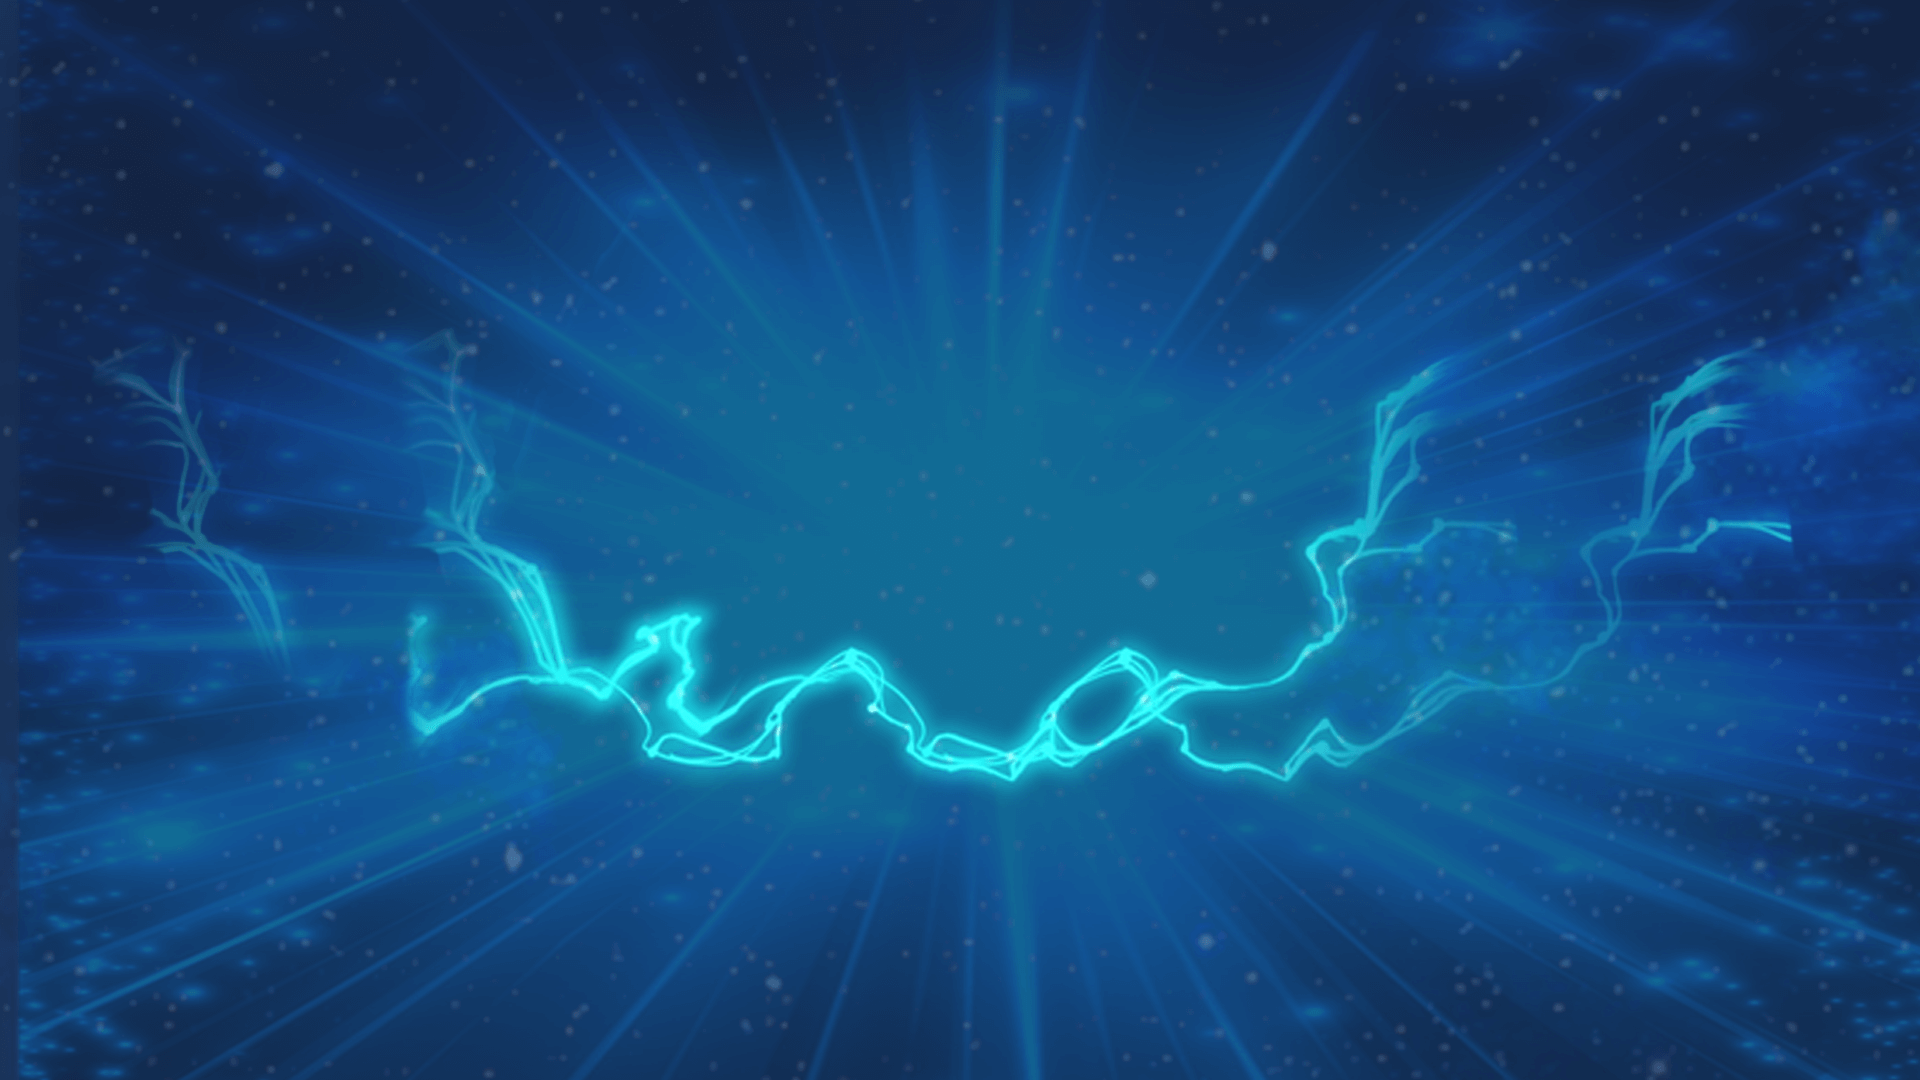
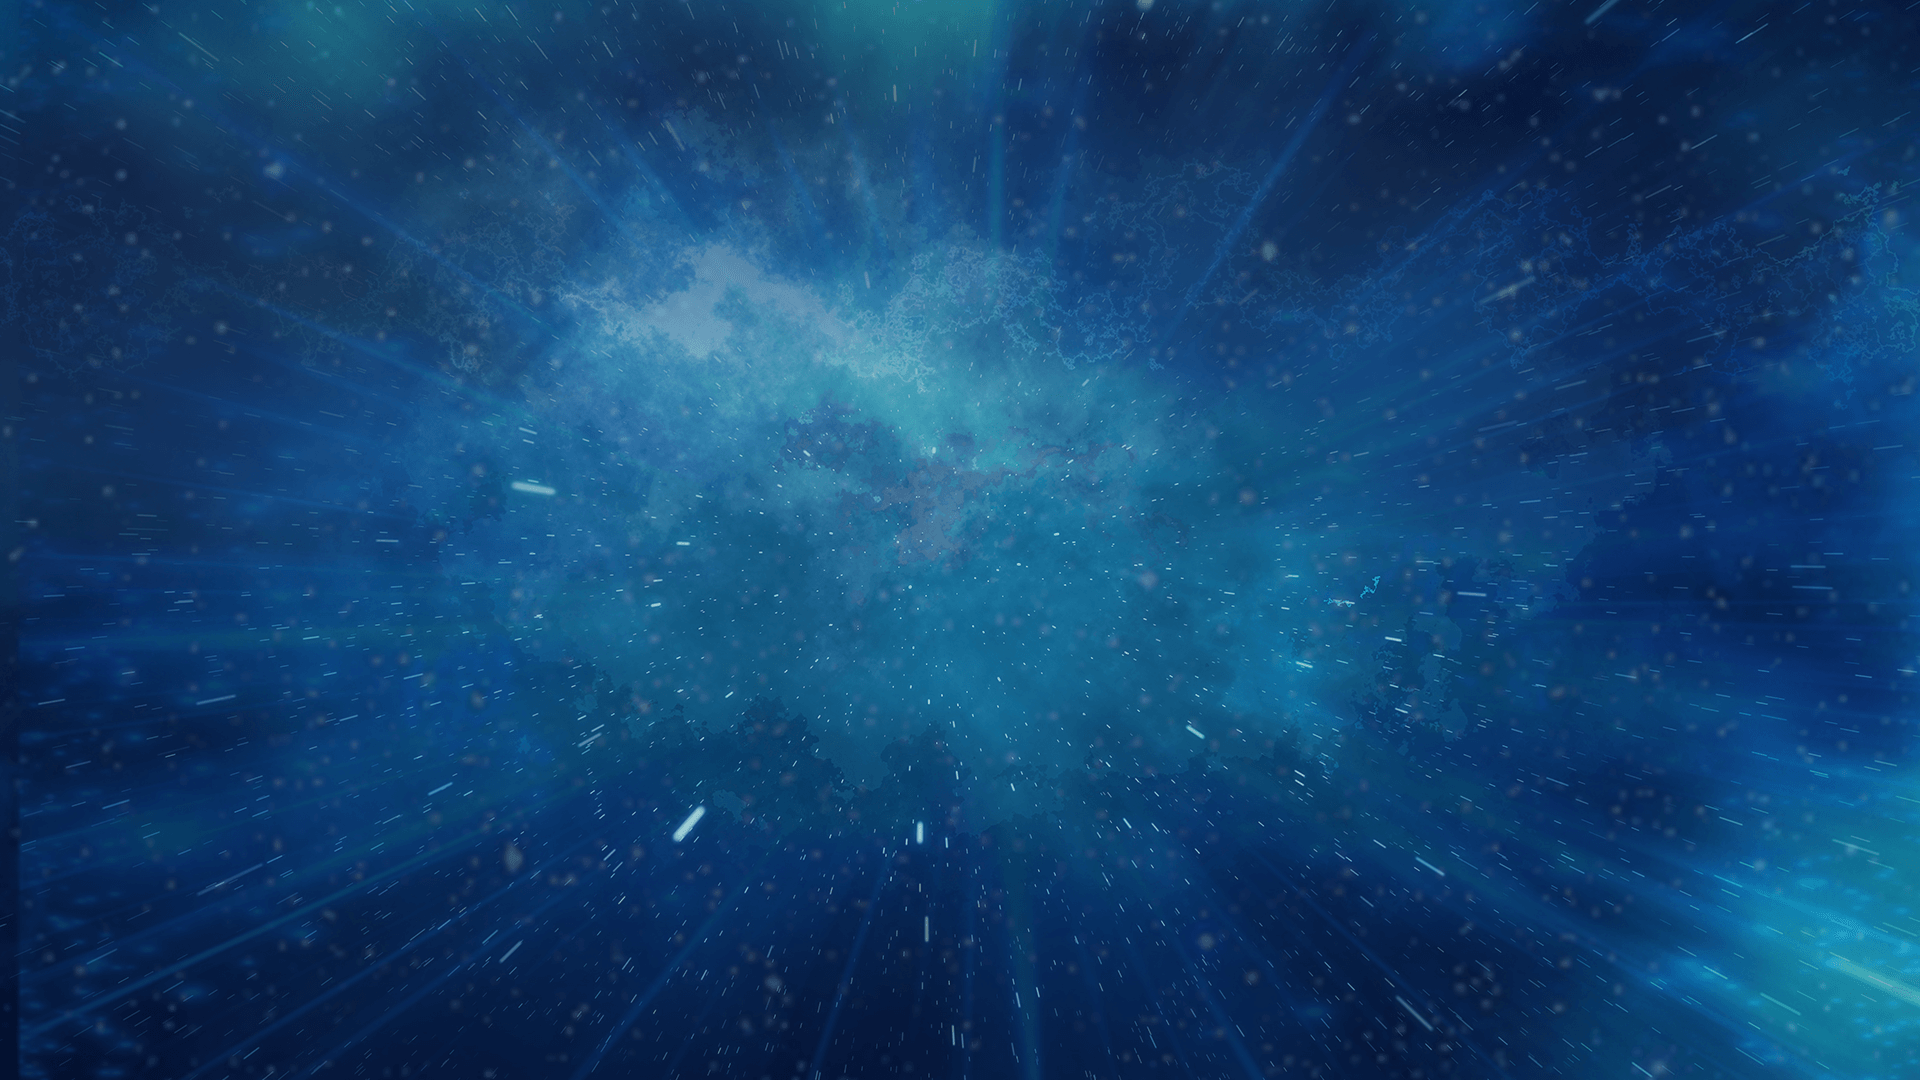
avances de detalles

diff --git a/src/app/modules/legends/pages/detail-market/avatar/avatar.component.html b/src/app/modules/legends/pages/detail-market/avatar/avatar.component.html
@@ -12,7 +12,7 @@
   <img src="cross/assets/img/linea-superior.png" alt="">
 </div>
 
-<div class="backgoframe">
+<div class="background-frame">
   <div class="frame">
     <div class="frame__element">
       <div>
@@ -29,47 +29,6 @@
         <img src="cross/assets/img/efect-picture.png" alt="Efect Picture">
       </div>
 
-      <div class="frame__picture__description-square">
-        <div class="frame__picture__description-square__box">
-          <img src="cross/assets/img/detail-square.svg" alt="">
-
-          <div class="frame__picture__description-square__box__title">
-            <span class="frame__picture__description-square__box__title__value">0</span>
-            <span class="frame__picture__description-square__box__title__name">Gen</span>
-          </div>
-
-        </div>
-
-        <div class="frame__picture__description-square__box">
-          <img src="cross/assets/img/detail-square.svg" alt="">
-
-          <div class="frame__picture__description-square__box__title">
-            <span class="frame__picture__description-square__box__title__value">0</span>
-            <span class="frame__picture__description-square__box__title__name">Gen</span>
-          </div>
-
-        </div>
-
-        <div class="frame__picture__description-square__box">
-          <img src="cross/assets/img/detail-square.svg" alt="">
-
-          <div class="frame__picture__description-square__box__title">
-            <span class="frame__picture__description-square__box__title__value">0</span>
-            <span class="frame__picture__description-square__box__title__name">Gen</span>
-          </div>
-
-        </div>
-
-        <div class="frame__picture__description-square__box">
-          <img src="cross/assets/img/detail-square.svg" alt="">
-
-          <div class="frame__picture__description-square__box__title">
-            <span class="frame__picture__description-square__box__title__value">0</span>
-            <span class="frame__picture__description-square__box__title__name">Gen</span>
-          </div>
-
-        </div>
-      </div>
     </div>
 
     <div class="frame__heart">
@@ -79,8 +38,79 @@
       <span>4759</span>
     </div>
   </div>
+
+  <div class="frame__picture__description-square">
+    <div class="frame__picture__description-square__box">
+      <img src="cross/assets/img/detail-square.svg" alt="">
+
+      <div class="frame__picture__description-square__box__title">
+        <span class="frame__picture__description-square__box__title__value">0</span>
+        <span class="frame__picture__description-square__box__title__name">Gen</span>
+      </div>
+
+    </div>
+
+    <div class="frame__picture__description-square__box">
+      <img src="cross/assets/img/detail-square.svg" alt="">
+
+      <div class="frame__picture__description-square__box__title">
+        <span class="frame__picture__description-square__box__title__value">0</span>
+        <span class="frame__picture__description-square__box__title__name">Gen</span>
+      </div>
+
+    </div>
+
+    <div class="frame__picture__description-square__box">
+      <img src="cross/assets/img/detail-square.svg" alt="">
+
+      <div class="frame__picture__description-square__box__title">
+        <span class="frame__picture__description-square__box__title__value">0</span>
+        <span class="frame__picture__description-square__box__title__name">Gen</span>
+      </div>
+
+    </div>
+
+    <div class="frame__picture__description-square__box">
+      <img src="cross/assets/img/detail-square.svg" alt="">
+
+      <div class="frame__picture__description-square__box__title">
+        <span class="frame__picture__description-square__box__title__value">0</span>
+        <span class="frame__picture__description-square__box__title__name">Gen</span>
+      </div>
+
+    </div>
+  </div>
 </div>
 
 <div class="line-top">
   <img src="cross/assets/img/linea-inferior.png" alt="">
+</div>
+
+
+<div class="current_price">
+
+  <div class="current_price__left">
+    <div class="current_price__left__content">
+      <h3>Actual Price: </h3>
+      <img src="cross/assets/img/icn_ethereum.svg" alt="Marco Card">
+      <span>0.000 / US $15</span>
+    </div>
+
+  </div>
+
+  <div class="current_price__right">
+    <img src="cross/assets/img/button.png" alt="Marco Card">
+    <button class="btn">BUY NOW</button>
+  </div>
+</div>
+
+<div class="graphic">
+  <div class="graphic__content">
+    <div>Time left: 47:00</div>
+    <div class="graphic__content__line"></div>
+    <div>
+      <div>STARTED AT: <img src="cross/assets/img/icn_ethereum.svg" alt="Marco Card"> 0.01</div>
+      <div>PRICE GOES TO: <img src="cross/assets/img/icn_ethereum.svg" alt="Marco Card"> 0.2</div>
+    </div>
+  </div>
 </div>

diff --git a/src/app/modules/legends/pages/detail-market/avatar/avatar.component.scss b/src/app/modules/legends/pages/detail-market/avatar/avatar.component.scss
@@ -35,33 +35,32 @@ avatar-component {
     }
   }
 
+  .background-frame {
+    background-image: url("cross/assets/img/background_detail_market.png");
+    z-index: -2;
+    height: 100%;
+    background-position: center;
+    background-repeat: no-repeat;
+    background-size: cover;
+  }
   .frame {
     display: flex;
-    background-image: url("cross/assets/img/background_detail_market.png");
-    background-position: center center;
-    background-repeat: no-repeat;
-    background-size: 100%;
-    z-index: -2;
     &__picture {
       flex: 1;
-      text-align: center;
       display: flex;
+      justify-content: center;
+      align-items: center;
       flex-direction: column;
       &__animal {
         z-index: 2;
 
-
-        @media (min-width: 1281px) {
+        @media (min-width: 400px) {
           img {
             width: 354px;
           }
         }
-        @media (min-width: 768px) and (max-width: 1024px) {
-          img {
-            width: 250px;
-          }
-        }
-        @media (min-width: 320px) and (max-width: 767px) {
+
+        @media (min-width: 320px) and (max-width: 399px) {
           img {
             width: 200px;
           }
@@ -70,7 +69,8 @@ avatar-component {
 
       &__efect {
         z-index: 1;
-        margin: -340px 67px 0px 0;
+        margin: -337px 66px -41px 32px;
+        display: none;
       }
 
       &__description-square {
@@ -110,10 +110,12 @@ avatar-component {
     }
 
     &__element {
+      flex: 1;
       display: flex;
       flex-direction: column;
     }
     &__heart {
+      flex: 1;
       display: flex;
       flex-direction: row;
       justify-content: center;
@@ -122,6 +124,72 @@ avatar-component {
       }
       span {
         padding-top: 5px;
+      }
+    }
+  }
+
+  .current_price {
+    display: flex;
+    color: #FFFFFF;
+
+    &__right, &__left {
+      text-align: center;
+      flex: 1;
+
+      h3, span {
+        font-size: 1.875em;
+        font-weight: 200;
+      }
+    }
+
+    &__left__content {
+      display: flex;
+      flex-direction: row;
+      justify-content: center;
+      align-items: center;
+
+      img {
+        margin: 0 4px 0 16px;
+        width: 16px;
+      }
+    }
+
+    &__right {
+      display: flex;
+      flex-direction: row;
+      justify-content: center;
+      align-items: center;
+
+      button {
+        position: absolute;
+        border: none;
+        background: transparent;
+        height: 46px;
+        width: 255px;
+        cursor: pointer;
+        color: #FFFFFF;
+        font-size: 1.25em;
+        font-weight: bold;
+      }
+    }
+  }
+
+  .graphic {
+    display: flex;
+    flex-direction: row;
+    justify-content: center;
+    align-items: center;
+    margin-top: 30px;
+    color: #FFFFFF;
+    &__content {
+      width: 600px;
+      height: 150px;
+
+      &__line {
+        font-size: 1.5625em;
+        width: 100%;
+        height: 100%;
+        background: #97A2FF;
       }
     }
   }
